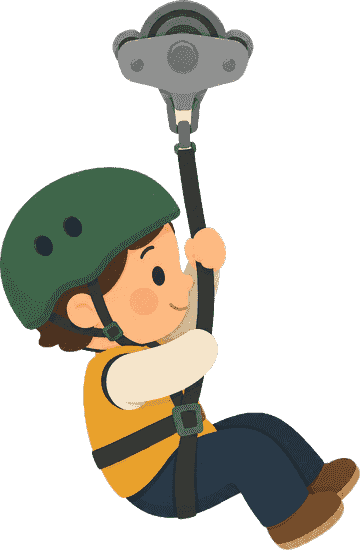
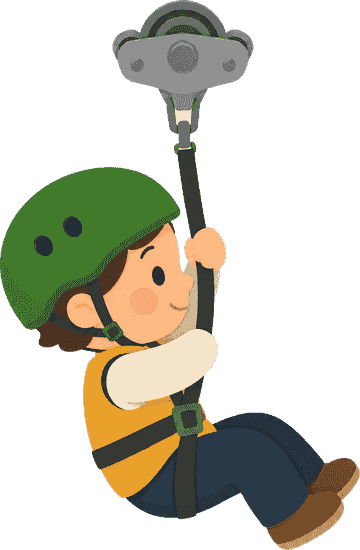
ui: recolor illustrations to brand greens, put today's tasks first on desktop

diff --git a/src/screens/Home.tsx b/src/screens/Home.tsx
@@ -70,19 +70,10 @@ export default function Home() {
         </p>
       </header>
 
-      {/* Row 1: the scene next to today's tasks, like the mockup. In RTL the
-          first column (the scene, the star of the screen) sits on the right. */}
-      <div className="space-y-5 lg:grid lg:grid-cols-[minmax(0,1fr)_400px] lg:items-start lg:gap-5 lg:space-y-0">
-        <Card className="overflow-hidden">
-          {/* the illustration's own cream sky is the card surface */}
-          <CanopyScene done={tasks.filter((t) => t.done).length} remaining={tasks.filter((t) => !t.done).length} />
-          <p className="px-4 py-3 text-center text-sm text-muted">
-            {tasks.length === 0
-              ? 'הוסף משימות כדי למתוח את המסלול.'
-              : 'השלם משימות כדי להאריך את המסלול.'}
-          </p>
-        </Card>
-
+      {/* Row 1. Today's tasks come first in DOM order, so in RTL they sit on
+          the right, where reading starts and attention lands. The scene is the
+          reward for doing them, not the thing to look at first. */}
+      <div className="space-y-5 lg:grid lg:grid-cols-[minmax(0,440px)_minmax(0,1fr)] lg:items-start lg:gap-5 lg:space-y-0">
         <Card className="p-4">
           <div className="mb-1 flex items-baseline justify-between">
             <h2 className="font-bold text-ink">המשימות להיום</h2>
@@ -128,6 +119,16 @@ export default function Home() {
               </div>
             )}
           </div>
+        </Card>
+
+        <Card className="overflow-hidden">
+          {/* the illustration's own cream sky is the card surface */}
+          <CanopyScene done={tasks.filter((t) => t.done).length} remaining={tasks.filter((t) => !t.done).length} />
+          <p className="px-4 py-3 text-center text-sm text-muted">
+            {tasks.length === 0
+              ? 'הוסף משימות כדי למתוח את המסלול.'
+              : 'השלם משימות כדי להאריך את המסלול.'}
+          </p>
         </Card>
       </div>
 